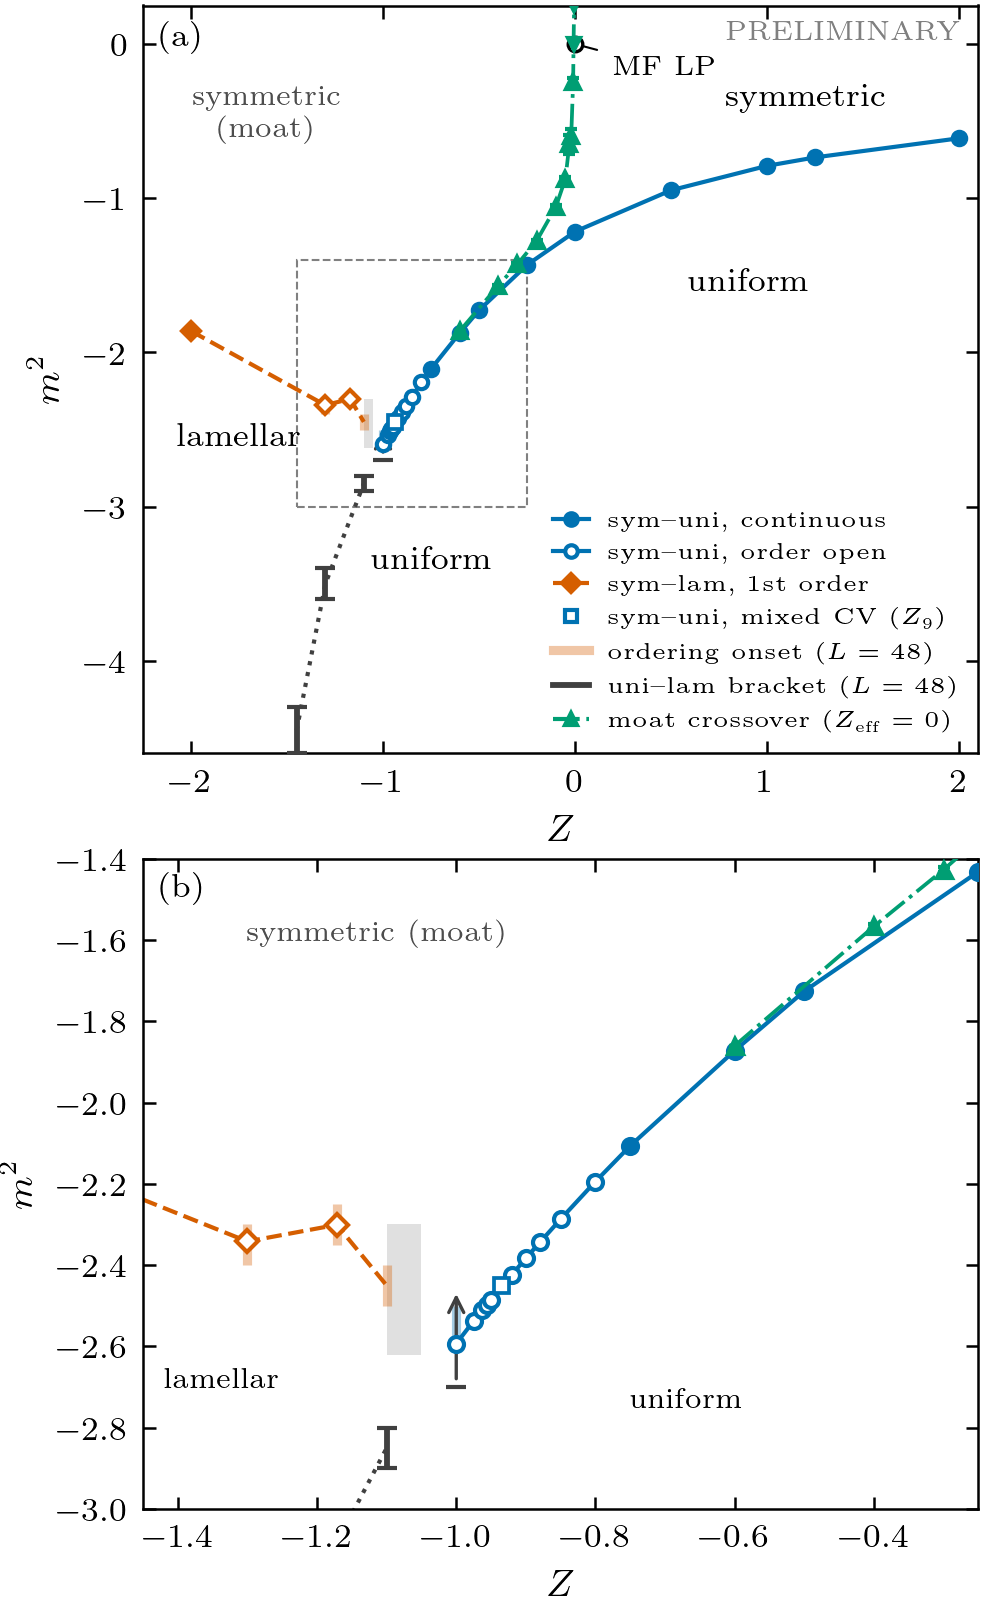
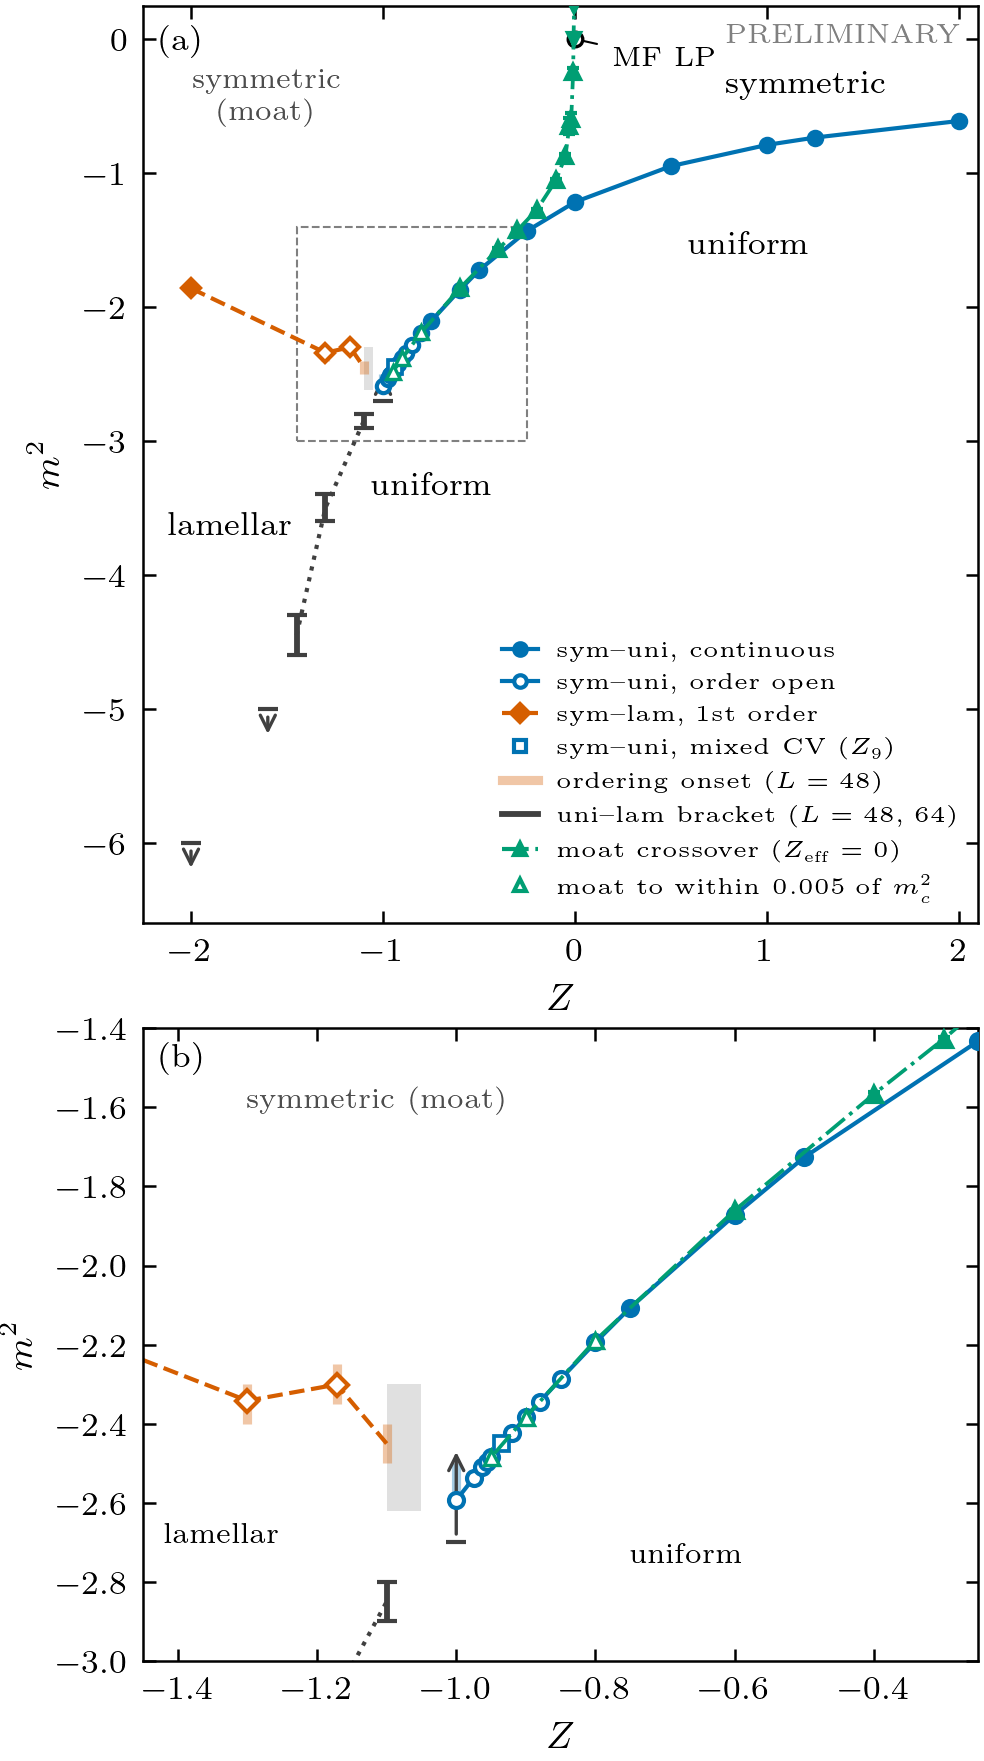
Preliminary phase diagram: m2 range to -6.6 (deep uni-lam bounds at Z=-1.6/-2.0, Z=-1.45 bracket), L=64 moat bounds at Z=-0.8..-0.95 (open triangles), brackets labelled L=48/64

diff --git a/scripts/fig_phase_diagram.py b/scripts/fig_phase_diagram.py
@@ -106,6 +106,15 @@ def moat_points() -> pd.DataFrame:
     return t[t.kind.isin(["crossing", "shift"])].sort_values("m2_moat")
 
 
+def moat_bounds() -> pd.DataFrame:
+    """Z_eff < 0 down to the deepest symmetric mass next to the transition (L >= 64)."""
+    f = ROOT / "reports" / "sk_symmetric" / "moat_line.csv"
+    if not f.is_file():
+        return pd.DataFrame(columns=["Z", "m2_moat"])
+    t = pd.read_csv(f)
+    return t[(t.kind == "below") & (t.Z >= -0.95) & (t.Z <= -0.6) & (t.L >= 64)].sort_values("Z")
+
+
 def draw(ax, U, lam, H, inset=False, UL=(), MO=None):
     ms = 3.2 if not inset else 3.6
     if MO is not None and len(MO):
@@ -170,18 +179,19 @@ def main() -> int:
         print(p)
 
     use_prd()
-    fig, (ax, bx) = plt.subplots(2, 1, figsize=figsize("single", 1.6),
-                                 gridspec_kw={"height_ratios": [1.15, 1]})
+    fig, (ax, bx) = plt.subplots(2, 1, figsize=figsize("single", 1.75),
+                                 gridspec_kw={"height_ratios": [1.45, 1]})
     draw(ax, U, lam, H, UL=UL, MO=MO)
+    MB = moat_bounds()
     ax.set_xlim(-2.25, 2.1)
-    ax.set_ylim(-4.6, 0.25)
+    ax.set_ylim(-6.6, 0.25)
     ax.set_xlabel(r"$Z$")
     ax.set_ylabel(r"$m^2$")
     ax.text(1.2, -0.4, "symmetric", ha="center", fontsize=8)
     ax.text(-1.6, -0.6, "symmetric\n(moat)", ha="center", fontsize=7, color="0.3")
     ax.text(0.9, -1.6, "uniform", ha="center", fontsize=8)
     ax.text(-0.75, -3.4, "uniform", ha="center", fontsize=8)
-    ax.text(-1.75, -2.6, "lamellar", ha="center", fontsize=8)
+    ax.text(-1.8, -3.7, "lamellar", ha="center", fontsize=8)
     ax.annotate("MF LP", (0, 0), (0.2, -0.2), fontsize=6.5, arrowprops=dict(arrowstyle="-", lw=0.5))
     ax.text(0.98, 0.98, "PRELIMINARY", transform=ax.transAxes, ha="right", va="top", fontsize=6.5, color="0.5")
     ax.text(0.02, 0.98, "(a)", transform=ax.transAxes, va="top", fontsize=8)
@@ -190,6 +200,11 @@ def main() -> int:
     from matplotlib.patches import Rectangle
     ax.add_patch(Rectangle((zx[0], zy[0]), zx[1] - zx[0], zy[1] - zy[0], fill=False, ec="0.5", lw=0.5, ls="--"))
     draw(bx, U, lam, H, inset=True, UL=UL, MO=MO)
+    for a, ms in ((ax, 3.2), (bx, 3.6)):
+        if len(MB) and len(MO):
+            x0 = MO[MO.kind == "crossing"].sort_values("Z").iloc[0]
+            a.plot([x0.Z, *MB.Z[::-1]], [x0.m2_moat, *MB.m2_moat[::-1]], "-.", lw=0.9, color=C_MOAT, zorder=4)
+            a.plot(MB.Z, MB.m2_moat, "^", ms=ms, mfc="white", mec=C_MOAT, mew=0.8, zorder=5)
     bx.set_xlim(*zx)
     bx.set_ylim(*zy)
     bx.set_xlabel(r"$Z$")
@@ -205,8 +220,9 @@ def main() -> int:
          Line2D([], [], marker="D", ls="--", color=C_MOD, ms=3, label="sym–lam, 1st order"),
          Line2D([], [], marker="s", ls="", color=C_UNI, mfc="white", ms=3, label=r"sym–uni, mixed CV ($Z_9$)"),
          Line2D([], [], lw=2.2, color=C_MOD, alpha=0.35, label="ordering onset ($L=48$)"),
-         Line2D([], [], marker="_", ls="-", lw=1.4, color=C_UM, ms=5, label="uni–lam bracket ($L=48$)"),
-         Line2D([], [], marker="^", ls="-.", color=C_MOAT, ms=3, label=r"moat crossover ($Z_{\rm eff}=0$)")]
+         Line2D([], [], marker="_", ls="-", lw=1.4, color=C_UM, ms=5, label="uni–lam bracket ($L=48$, 64)"),
+         Line2D([], [], marker="^", ls="-.", color=C_MOAT, ms=3, label=r"moat crossover ($Z_{\rm eff}=0$)"),
+         Line2D([], [], marker="^", ls="", color=C_MOAT, mfc="white", ms=3, label=r"moat to within $0.005$ of $m^2_c$")]
     ax.legend(handles=h, loc="lower right", fontsize=5.5, frameon=False, handlelength=1.6)
     fig.tight_layout(pad=0.3)
     save(fig, ROOT / "paper" / "figures" / "phase_diagram_prelim")
